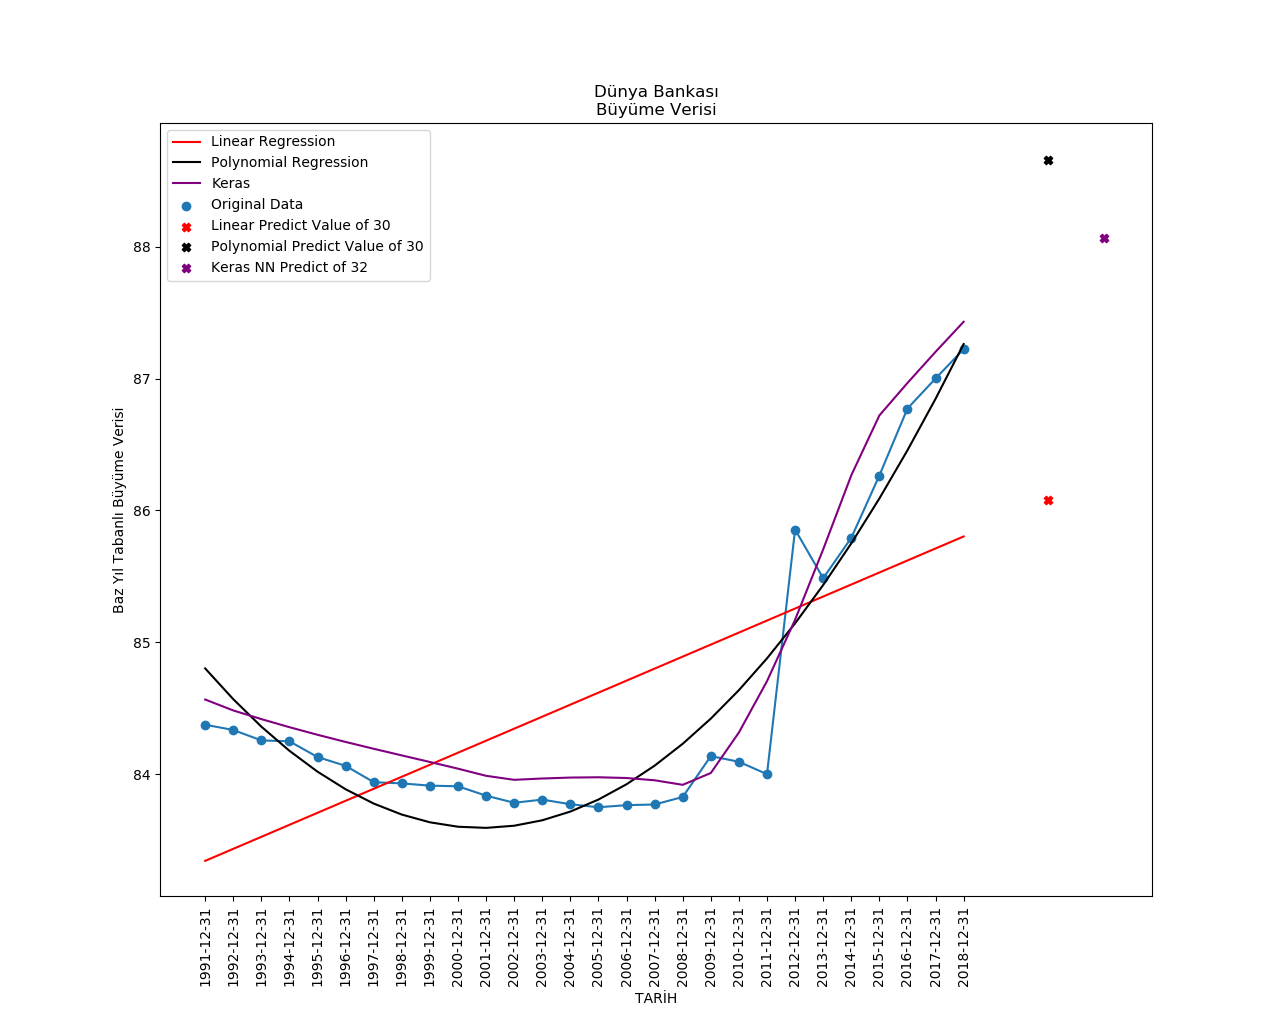
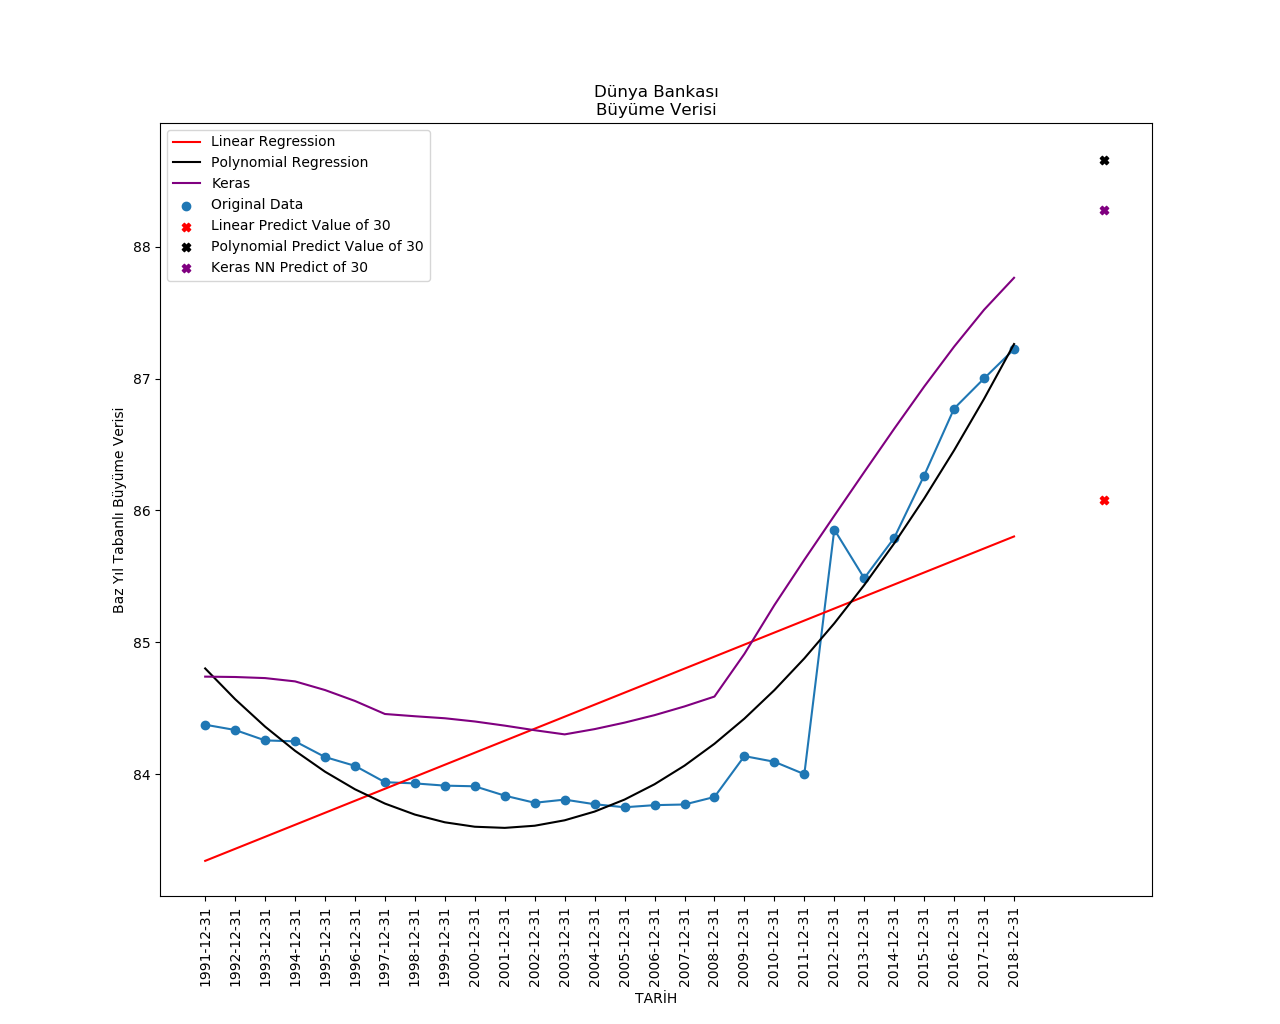
Add files via upload

diff --git a/World_Bank_Data_Model_Comparison.py b/World_Bank_Data_Model_Comparison.py
@@ -52,7 +52,7 @@ model.add(Dense(32, activation="tanh"))
 model.add(Dense(30, activation="relu"))
 model.add(Dense(1))
 
-model.compile(batch_size=1, optimizer=Adam(lr=0.01), loss="mse")
+model.compile(batch_size=1, optimizer=Adam(lr=0.02), loss="mse")
 model.fit(x_train, y_train, epochs=15000)
 
 y_pred_ker = model.predict([[30]])
@@ -63,7 +63,7 @@ plt.scatter(x,y, label="Original Data")
 plt.plot(x,y)
 plt.scatter(30,y_pred_lr, color="red", label="Linear Predict Value of 30", marker="X")
 plt.scatter(30,y_pred_pr, color="black", label="Polynomial Predict Value of 30", marker="X")
-plt.scatter(32,y_pred_ker, color="purple", label="Keras NN Predict of 32", marker="X")
+plt.scatter(30,y_pred_ker, color="purple", label="Keras NN Predict of 30", marker="X")
 plt.plot(x, y_pred, color="red", label="Linear Regression")
 plt.plot(x, y_log, color="black", label="Polynomial Regression")
 plt.plot(x, y_pred_k, color="purple", label="Keras")
